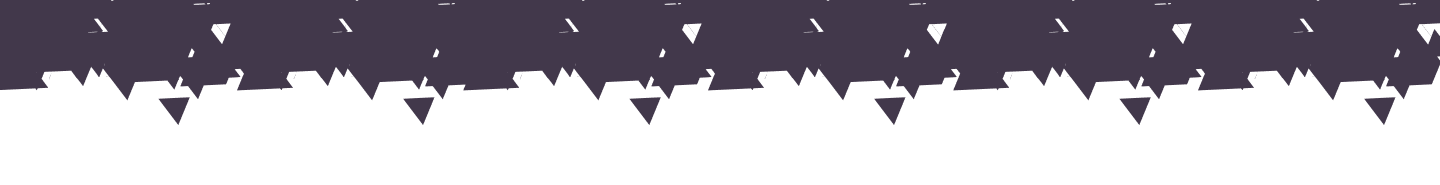
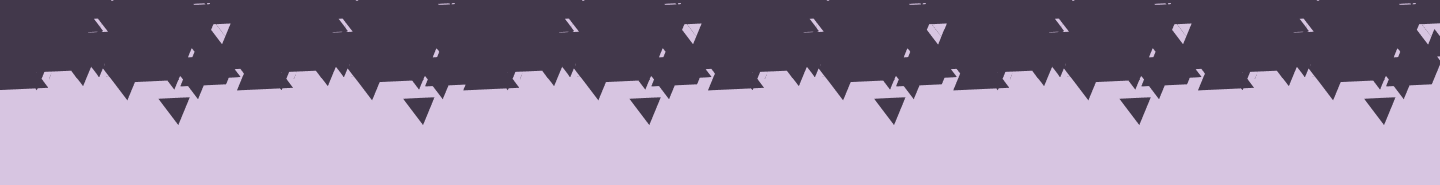
apply new layout in projects page

diff --git a/src/components/projects/Projects.tsx b/src/components/projects/Projects.tsx
@@ -5,66 +5,67 @@ import StudyProjectsModal from './modals/StudyProjectsModal';
 import Footer from '../footer/Footer';
 
 export default function Projects() {
-   return (
-      <section className="bg-gray-100 to-100% relative">
-         <section className="w-[90%] pt-8 pb-10 flex flex-col m-auto max-w-[1024px] ">
-            <h2 className="text-brand-blue100 font-bold">Projects</h2>
-            <h1 className="text-brand-blueTitle text-4xl font-black">
-               Creative Soluctions
-            </h1>
-            <section className="  flex flex-col md:flex-row m-auto gap-12 pt-6 max-w-[99%]">
-               {/* CARD 1 */}
-               <section className="p-5 bg-gray-50 rounded-lg flex flex-col gap-3 shadow-md max-w-[450px] overflow-x-hidden">
-                  <article className="flex flex-col items-center justify-center overflow-x-hidden">
-                     <RealProjectsCarousel />
-                  </article>
-                  <article className="text-center text-lg -mt-4">
-                     <h2 className="text-brand-blueTitle font-bold text-2xl">
-                        Relevant and Real Projects <br />
-                        NextJS & responsive coding
-                     </h2>
-                     <p className="pt-2">
-                        Portfolio showcasing web projects using Next.js and
-                        responsive coding. Highlights technical skills and
-                        commitment to delivering practical solutions for
-                        real-world challenges, ensuring engaging and innovative
-                        digital experiences.
-                     </p>
-                  </article>
-                  <aside className="flex justify-end">
-                     <RealProjectsModal />
-                  </aside>
-               </section>
+  return (
+    <>
+      <section className="division1" />
 
-               {/* CARD 2 */}
-               <section className="p-5 bg-gray-50 rounded-lg flex flex-col gap-3 shadow-md max-w-[450px] overflow-x-hidden">
-                  <article className="flex flex-col items-center justify-center overflow-x-hidden">
-                     <StudyProjectsCarousel />
-                  </article>
-
-                  <article className="text-center text-lg -mt-4">
-                     <h2 className="text-brand-blueTitle font-bold text-2xl">
-                        Study Projects <br />
-                        Full-Stack coding
-                     </h2>
-                     <p className="pt-2">
-                        Study Projects emphasizing Full-Stack Coding.
-                        Demonstrates expertise in front-end and back-end
-                        development. Explore my portfolio for diverse,
-                        well-executed coding projects, showcasing technical
-                        skills and practical solutions for real-world
-                        challenges.
-                     </p>
-                  </article>
-                  <aside className="flex justify-end">
-                     <StudyProjectsModal />
-                  </aside>
-               </section>
+      <section className="bg-gradient-to-b from-[#D6C4E2] via-[#FFEFCA] to-[#B8AD94] relative">
+        <section className="w-[90%] pt-8 pb-10 flex flex-col m-auto max-w-[1024px]">
+          <h2 className="text-brand-blue100 font-bold">Projects</h2>
+          <h1 className="text-brand-blueTitle text-4xl font-black">
+            Creative Soluctions
+          </h1>
+          <section className="  flex flex-col md:flex-row m-auto gap-12 pt-6 max-w-[99%]">
+            {/* CARD 1 */}
+            <section className="p-5 bg-gray-50 rounded-lg flex flex-col gap-3 shadow-md max-w-[450px] overflow-x-hidden">
+              <article className="flex flex-col items-center justify-center overflow-x-hidden">
+                <RealProjectsCarousel />
+              </article>
+              <article className="text-center text-lg -mt-4">
+                <h2 className="text-brand-blueTitle font-bold text-2xl">
+                  Relevant and Real Projects <br />
+                  NextJS & responsive coding
+                </h2>
+                <p className="pt-2">
+                  Portfolio showcasing web projects using Next.js and responsive
+                  coding. Highlights technical skills and commitment to
+                  delivering practical solutions for real-world challenges,
+                  ensuring engaging and innovative digital experiences.
+                </p>
+              </article>
+              <aside className="flex justify-end">
+                <RealProjectsModal />
+              </aside>
             </section>
-         </section>
-         <Footer />
 
-         <section className="w-full h-16 absolute -top-8" id="projects" />
+            {/* CARD 2 */}
+            <section className="p-5 bg-gray-50 rounded-lg flex flex-col gap-3 shadow-md max-w-[450px] overflow-x-hidden">
+              <article className="flex flex-col items-center justify-center overflow-x-hidden">
+                <StudyProjectsCarousel />
+              </article>
+
+              <article className="text-center text-lg -mt-4">
+                <h2 className="text-brand-blueTitle font-bold text-2xl">
+                  Study Projects <br />
+                  Full-Stack coding
+                </h2>
+                <p className="pt-2">
+                  Study Projects emphasizing Full-Stack Coding. Demonstrates
+                  expertise in front-end and back-end development. Explore my
+                  portfolio for diverse, well-executed coding projects,
+                  showcasing technical skills and practical solutions for
+                  real-world challenges.
+                </p>
+              </article>
+              <aside className="flex justify-end">
+                <StudyProjectsModal />
+              </aside>
+            </section>
+          </section>
+        </section>
+
+        <section className="w-full h-16 absolute -top-8" id="projects" />
       </section>
-   );
+    </>
+  );
 }

diff --git a/src/components/home/Home.tsx b/src/components/home/Home.tsx
@@ -1,10 +1,8 @@
 'use client';
 import Image from 'next/image';
-import { PiChatsTeardropDuotone } from 'react-icons/pi';
 import HomeLinkedin from '@/assets/image/home/homeLinkedin.svg';
 import HomeGitHub from '@/assets/image/home/homeGithub.svg';
 import HomeCurriculum from '@/assets/image/home/homeCurriculum.svg';
-import Link from 'next/link';
 
 export default function Home() {
   return (
@@ -56,87 +54,7 @@ export default function Home() {
           </article>
         </section>
       </section>
-      <section className="division1" />
+     
     </>
   );
-}
-
-{
-  /* <section
-        id="home"
-        className="flex justify-center m-auto pt-80 pb-14 w-full overflow-x-hidden max-w-[1024px]"
-      >
-        <article className="-mt-4 w-[90%] lg:w-full">
-          <Image
-            src={HomeEllipse}
-            width={100}
-            alt=""
-            className="-left-20 top-24 absolute"
-          />
-          <section className="relative">
-            {/* <h1 className="text-brand-blueTitle text-7xl max-[360px]:text-6xl font-bold flex flex-col text-wrap lg:mx-[2%]">
-                     <article className="flex flex-col md:flex-row">
-                        <span className="w-40 ">Hey,</span>
-                        <span>I&apos;m</span>
-                     </article>
-                     <span className="text-brand-blue100" translate="no">
-                        Front-End
-                     </span>
-                     <span translate="no">Developer </span>
-                  </h1> 
-            <h1
-              className="text-brand-blueTitle text-7xl max-[360px]:text-6xl font-bold flex flex-col text-wrap lg:mx-[2%]"
-              translate="no"
-            >
-              <article className="flex flex-col md:flex-row text-brand-blue100">
-                <span className="pr-4"> Front</span>
-                <span>End</span>
-              </article>
-              <span>Developer </span>
-            </h1>
-            <Image
-              src={HomePicture}
-              alt=""
-              className="absolute w-80 -top-60 left-36 
-                     md:2/4 md:-top-10 md:left-[60%]
-                     lg:w-2/4 lg:lg:-top-64 lg:left-[50%]"
-            />
-          </section>
-          <p className="pt-4 pl-2 md:text-medium text-lg lg:mx-[2%]">
-            My name is&nbsp;
-            <span className="text-brand-blueTitle hover:text font-bold md:text-medium text-lg">
-              Anderson Carvalho.
-            </span>
-          </p>
-          <p className="pl-2 md:text-medium text-lg md:w-3/5 lg:w-3/5 lg:mx-[2%] lg:pr-20">
-            Former Special Infantry soldier shifting to programming in Portugal.
-            Committed to growth, eager to contribute and enhance my skills with
-            a new team.
-          </p>
-          <aside className="flex justify-around p-2 md:w-2/3">
-            <button
-              className="mt-6 text-white bg-brand-blue100 font-bold min-w-40 py-2 rounded-lg shadow
-                  shadow-brand-blue100"
-            >
-              <a href="#resume">Hire Me!</a>
-            </button>
-            <button
-              className="mt-6 text-brand-blue100 font-bold min-w-40 py-2 rounded-lg shadow
-                   shadow-brand-blue100"
-            >
-              <a
-                href="https://wa.me/351933864893"
-                target="_blank"
-                className="flex gap-1 justify-center items-center"
-              >
-                <PiChatsTeardropDuotone
-                  width={10}
-                  className="text-brand-blue100 "
-                />
-                Let&apos;s Chat
-              </a>
-            </button>
-          </aside>
-        </article>
-      </section> */
 }

diff --git a/src/app/page.tsx b/src/app/page.tsx
@@ -9,9 +9,9 @@ export default function Page() {
   return (
     <>
       <Home />
+      <Projects />
       <About />
       <Resume />
-      <Projects />
     </>
   );
 }
